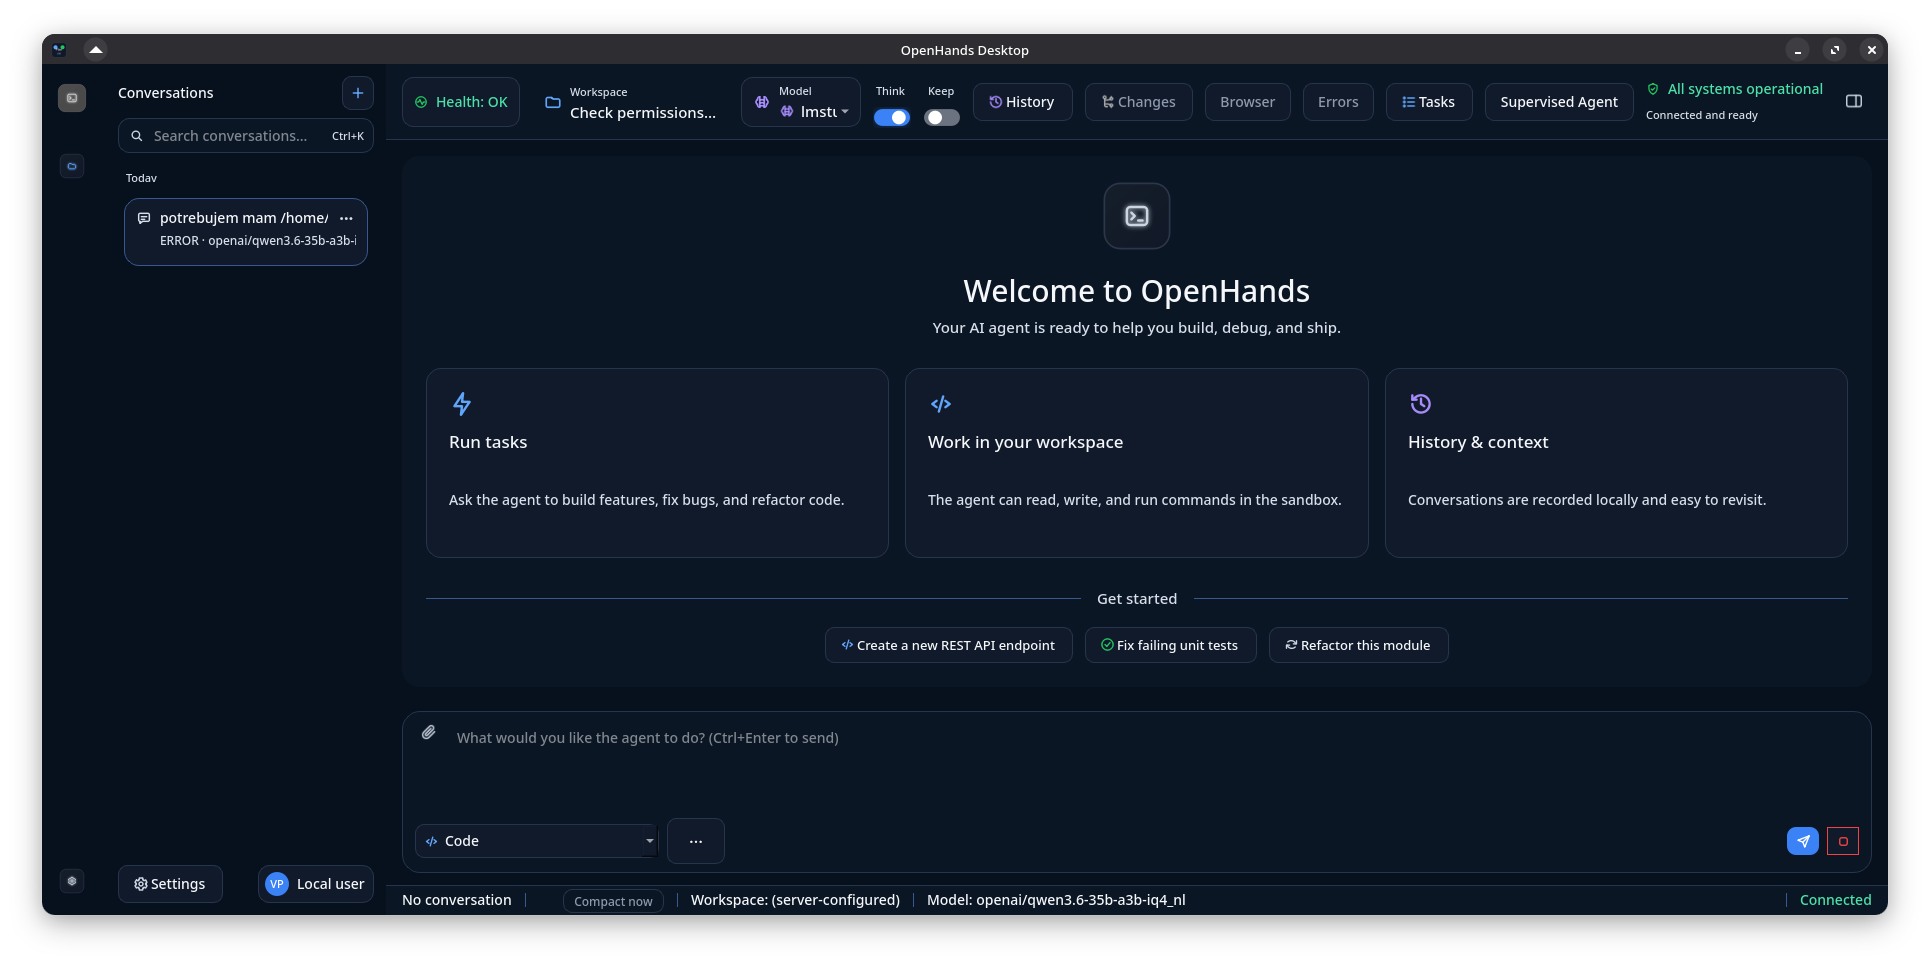
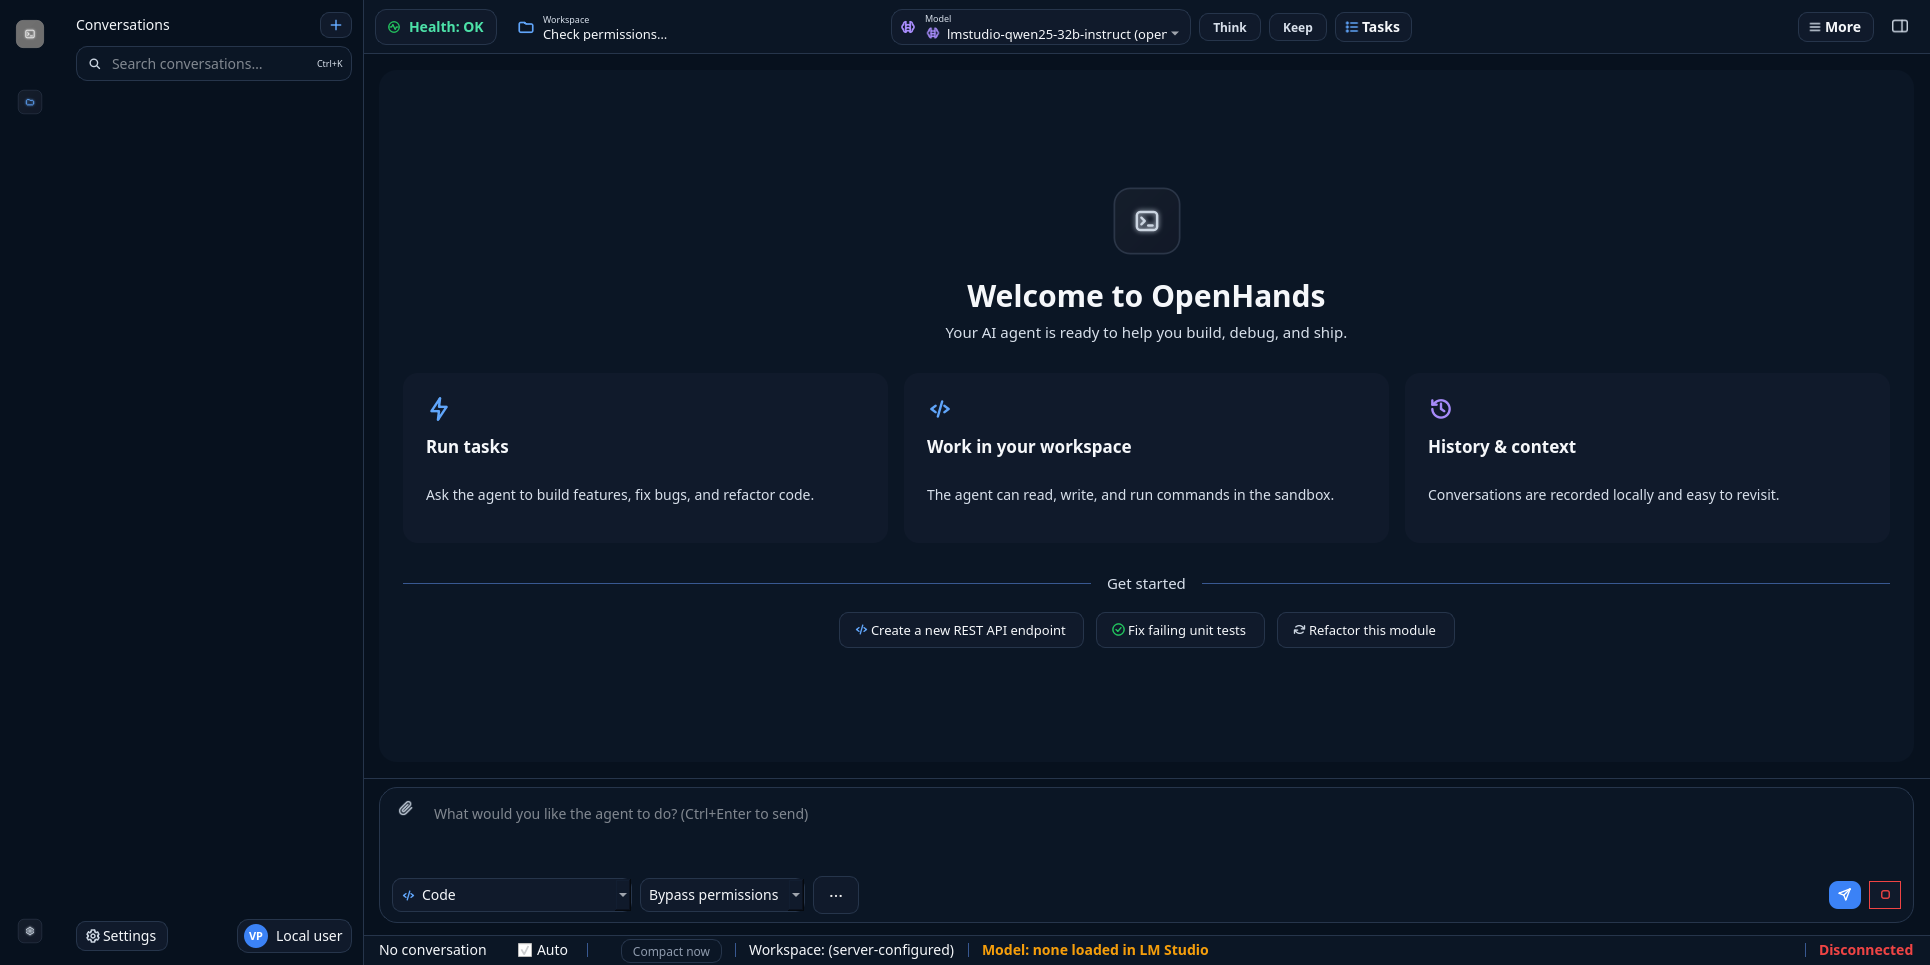
1.1: update README screenshot to current UI

diff --git a/1.1/scripts/take_screenshot.py b/1.1/scripts/take_screenshot.py
@@ -1,0 +1,44 @@
+"""Grabs a real screenshot of the running MainWindow (offscreen render) for
+docs/screenshot.png. Not part of the shipped app.
+"""
+
+import asyncio
+import os
+import sys
+
+sys.path.insert(0, "src")
+os.environ.setdefault("QT_QPA_PLATFORM", "offscreen")
+os.environ["AGENT_SERVER_URL"] = "http://127.0.0.1:8010"
+os.environ["AGENT_SERVER_SESSION_API_KEY"] = "dev-key-123"
+
+import qasync  # noqa: E402
+from PySide6.QtWidgets import QApplication  # noqa: E402
+
+from openhands_desktop.api.client import AppServerClient  # noqa: E402
+from openhands_desktop.core.history_store import HistoryStore  # noqa: E402
+from openhands_desktop.ui.main_window import MainWindow  # noqa: E402
+
+
+async def main() -> None:
+    client = AppServerClient(base_url="http://127.0.0.1:8010", session_api_key="dev-key-123")
+    history = HistoryStore(db_path="/tmp/screenshot-history.db")
+    window = MainWindow(client, history_store=history)
+    window.resize(1930, 965)
+    window.show()
+    await asyncio.sleep(4)  # let model list / async setup settle
+    if window.model_combo.count() > 1:
+        window.model_combo.setCurrentIndex(1)
+    await asyncio.sleep(1)
+    pixmap = window.grab()
+    pixmap.save("docs/screenshot.png", "PNG")
+    print(f"saved docs/screenshot.png ({pixmap.width()}x{pixmap.height()})")
+    await client.aclose()
+    window.close()
+
+
+if __name__ == "__main__":
+    app = QApplication(sys.argv)
+    loop = qasync.QEventLoop(app)
+    asyncio.set_event_loop(loop)
+    with loop:
+        loop.run_until_complete(main())
